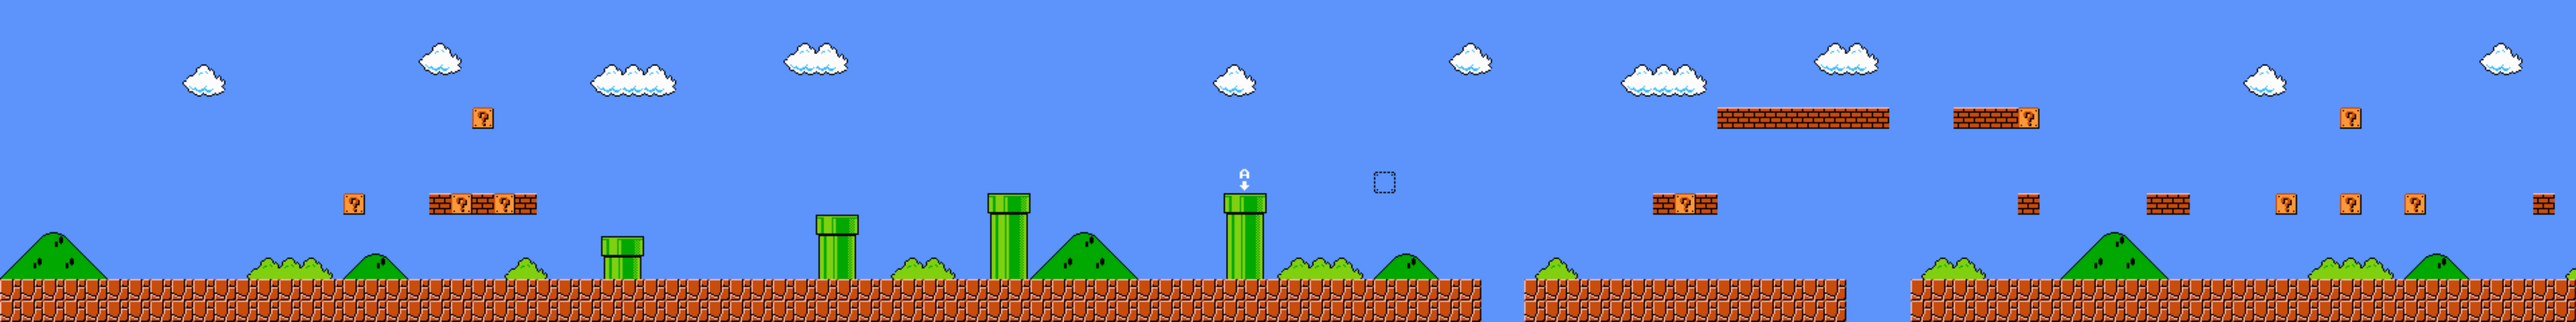
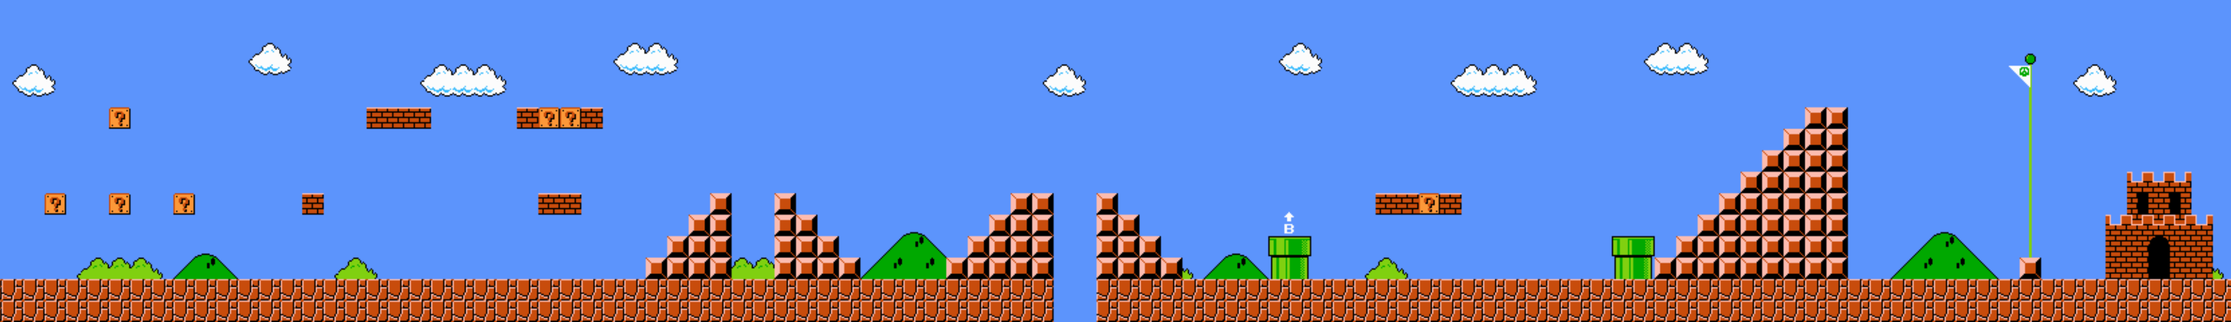
버그 수정 및 스크롤링 수정

diff --git a/object/Mario.py b/object/Mario.py
@@ -1,7 +1,7 @@
 from pico2d import *
 import game_framework
 import time
-
+import server
 
 Floor = 100
 VELOCITY = 1 # 속도
@@ -54,10 +54,13 @@ class IDLE:
 
     @staticmethod
     def draw(self):
+        sx, sy = self.x - server.back.window_left, server.mario.y
         if self.dir == 0:
             self.pose += 92
-            self.image.clip_draw(0, self.pose, 100, 75, self.x, self.y)
+            self.image.clip_draw(0, self.pose, 100, 75, sx, sy)
             self.pose -= 92
+        self.font.draw(self.x + 20, self.y + 10, f'x={self.x:.2f},y={self.y:.2f}, speed={self.speed:.2f}',
+                       (255, 255, 255))
 
 class RUN:
     def enter(self, event):
@@ -79,15 +82,18 @@ class RUN:
     def do(self):
         self.frame = (self.frame + FRAMES_PER_ACTION * ACTION_PER_TIME * game_framework.frame_time * self.speed) % 3
         self.x += self.dir * MOVE_SPEED_PPS * game_framework.frame_time * self.speed
-        self.x = clamp(0, self.x, 1400)
+        self.x = clamp(1, self.x, 4850*2)
 
     def draw(self):
+        sx, sy = self.x - server.back.window_left, server.mario.y
         if self.dir == -1:
-            self.image.clip_draw(int(self.frame) * 100 + 1000, self.pose + 12, 100, 75, self.x, self.y)
+            self.image.clip_draw(int(self.frame) * 100 + 1000, self.pose + 12, 100, 75, sx, sy)
             self.pose = 320
         elif self.dir == 1:
-            self.image.clip_draw(int(self.frame) * 100 + 100, self.pose + 91, 100, 75, self.x, self.y)
+            self.image.clip_draw(int(self.frame) * 100 + 100, self.pose + 91, 100, 75, sx, sy)
             self.pose = -1
+        self.font.draw(self.x + 20, self.y + 10, f'x={self.x:.2f},y={self.y:.2f}, speed={self.speed:.2f}',
+                       (255, 255, 255))
 
 class JUMP:
     def enter(self):
@@ -214,7 +220,7 @@ class Mario:
     def draw(self): #그리기
         self.cur_state.draw(self)
         draw_rectangle(*self.get_bb())
-        self.font.draw(self.x+20,self.y+10,f'x={self.x:.2f},y={self.y:.2f}, speed={self.speed:.2f}',(255,255,255))
+
 
     def jump(self, j): # 점프 상태 체크
         self.isJump = j
@@ -280,14 +286,7 @@ class Mario:
             self.state = 'invincible'
         if group == 'mario:enemy':
             pass
-        if group == 'mario:block':
-            if self.y < other.y:
-                self.y = other.get_bb()[1] - 11
-                self.v = -self.v
-            if self.y > other.y:
-                self.y = other.get_bb()[3] + 31
-                self.isJump = 0
-                self.v = VELOCITY
+
             pass
         pass
 
@@ -307,6 +306,14 @@ class Mario:
     def handle_floor_collision(self, other, group):
         if group == 'mario:enemy':
             self.jump(1)
+        if group == 'mario:block':
+            if self.y < other.y:
+                self.y = other.get_bb()[1] - 11
+                self.v = -self.v
+            if self.y > other.y:
+                self.y = other.get_bb()[3] + 31
+                self.isJump = 0
+                self.v = VELOCITY
             pass
         pass
 

diff --git a/object/Tiles.py b/object/Tiles.py
@@ -1,10 +1,10 @@
 from pico2d import *
 import game_world
-
+import server
 class Tile:
     def __init__(self):
-        self.x, self.y = 770 ,260
-        self.dis = 19
+        self.x, self.y = 770 ,255
+        self.w, self.h = 50, 50
         self.image = load_image('C:/2DGP_Project/image/Tiles.png')
 
     def update(self):
@@ -15,7 +15,7 @@ class Tile:
         pass
 
     def get_bb(self):
-        return self.x - 24, self.y - 24, self.x + 24, self.y + 19
+        return self.x-(self.w/2), self.y-(self.h/2), self.x+(self.w/2),self.y+(self.h/2)
 
     def handle_collision(self, other, group):
         if group == 'item:wall':
@@ -31,8 +31,8 @@ class Tile:
 
 class Brick:
     def __init__(self):
-        self.x, self.y = 1050, 445
-        self.dis = 19
+        self.x, self.y = 1050, 440
+        self.w, self.h = 50, 50
         self.image = load_image('C:/2DGP_Project/image/Tiles.png')
 
     def update(self):
@@ -43,7 +43,7 @@ class Brick:
         pass
 
     def get_bb(self):
-        return self.x - 24, self.y - 24, self.x + 24, self.y + 19
+        return self.x-(self.w/2), self.y-(self.h/2), self.x+(self.w/2),self.y+(self.h/2)
 
     def handle_collision(self, other, group):
         if group == 'item:wall':
@@ -59,8 +59,8 @@ class Brick:
 
 class Item_Box:
     def __init__(self):
-        self.x, self.y = 1050 ,260
-        self.dis = 19
+        self.x, self.y = 1050 ,255
+        self.w, self.h = 240, 50
         self.image = load_image('C:/2DGP_Project/image/Tiles.png')
 
     def update(self):
@@ -71,7 +71,7 @@ class Item_Box:
         pass
 
     def get_bb(self):
-        return self.x - 119, self.y - 24, self.x + 119, self.y + 19
+        return self.x-(self.w/2), self.y-(self.h/2), self.x+(self.w/2),self.y+(self.h/2)
 
     def handle_collision(self, other, group):
         if group == 'mario:item':
@@ -88,8 +88,9 @@ class Item_Box:
 class Pipe:
     def __init__(self):
         self.image = load_image('C:/2DGP_Project/image/Tiles.png')
+        self.w, self.h = 90, 100
         self.dis = 35
-        self.x, self.y = 1350, 150
+        self.x, self.y = 1355, 135
 
     def update(self):
         pass
@@ -98,7 +99,7 @@ class Pipe:
         draw_rectangle(*self.get_bb())
 
     def get_bb(self):
-        return self.x-40, self.y-65, self.x+50,self.y+35
+        return self.x-(self.w/2), self.y-(self.h/2), self.x+(self.w/2),self.y+(self.h/2)
 
     def handle_collision(self, other, group):
         pass
@@ -117,11 +118,12 @@ class Grid:
         self.x, self.y = 0, 0
 
     def update(self):
+        self.x -= server.mario.x
         pass
 
     def draw(self):
-        pass
         # for i in range(30):
         #     for j in range(60):
         #         draw_rectangle(self.x + j * 46,self.y + i*46,self.x + (j+1) * 46,self.x + (i+1) * 46)
+        pass
 

diff --git a/object/Background.py b/object/Background.py
@@ -3,28 +3,31 @@ from Mario import Mario
 import server
 class stage1:
     def __init__(self):
-        self.stage1 = load_image('C:/2DGP_Project/image/1stage-1.png')
-        # self.stage1_2 = load_image('1stage-2.png')
-        # self.image.clip_image(*screen_scale())
-        self.loc = 0
+        self.stage1 = [load_image(f'C:/2DGP_Project/image/1stage-{num}.png') for num in range(2)]
         self.canvas_width = get_canvas_width()
         self.canvas_height = get_canvas_height()
-        self.w = self.stage1.w
+        self.w = 4850 * 2
 
     def draw(self):
         # self.image.draw(4900 - 1400 - 700, 350)
         # self.stage1.clip_draw(0 , 0, 1400, 700, 700, 350)
-        self.stage1.clip_draw_to_origin(
-            self.window_left, 0,
-            self.canvas_width, self.canvas_height,
-            0, 0)
+        # self.stage1.clip_draw_to_origin(
+        #     self.window_left, 0,
+        #     self.canvas_width, self.canvas_height,
+        #     0, 0)
 
+        self.window_left = clamp(0,
+                                 int(server.mario.x) - self.canvas_width // 2,
+                                 self.w - self.canvas_width - 1)
+
+        tile_left = self.window_left // 4850
+        tile_right = (self.window_left + self.canvas_width) // 4850
+        left_offset = self.window_left % 4850
+
+        for tx in range(tile_left, tile_right + 1):
+            self.stage1[tx].draw_to_origin(-left_offset + (tx - tile_left) * 4850, 0)
 
     def update(self):
-        # self.loc += 1
-        self.window_left = clamp(0,
-                                 int(server.mario.x) - self.canvas_width // 2, self.w - self.canvas_width - 1)
+        # self.window_left = clamp(0,
+        #                          int(server.mario.x) - self.canvas_width // 2, self.w - self.canvas_width - 1)
         pass
-
-def screen_scale():
-    return 0,0,1400,700

diff --git a/object/Enemy.py b/object/Enemy.py
@@ -62,7 +62,7 @@ class Goomba:
 
     def handle_floor_collision(self, other, group):
         if group == 'enemy:floor':
-            self.y = other.y + other.dis + 1 + 25
+            self.y = other.y + other.h/2 + 1 + 25
         if group == 'mario:enemy':
             self.dir_x = 0
             self.state = 'dead'
@@ -108,7 +108,7 @@ class KoopaTroopa:
 
     def handle_floor_collision(self, other, group):
         if group == 'enemy:floor':
-            self.y = other.y + other.dis + 1 + 25
+            self.y = other.y + other.h/2 + 1 + 25
         if group == 'mario:enemy':
             if self.state == 'STAMPED':
                 self.dir_x = 2
@@ -157,7 +157,7 @@ class RedTroopa:
 
     def handle_floor_collision(self, other, group):
         if group == 'enemy:floor':
-            self.y = other.y + other.dis + 1 + 25
+            self.y = other.y + other.h/2 + 1 + 25
         if group == 'mario:enemy':
             if self.state == 'STAMPED':
                 self.dir_x = 2

diff --git a/object/play_state.py b/object/play_state.py
@@ -71,6 +71,7 @@ def update():
 
 
 
+
 def draw_world():
     for game_object in game_world.all_objects():
         game_object.draw()
@@ -101,10 +102,10 @@ def floor_collide(a,b): # 바닥 충돌 판정 (a가 b를 밟았을 때)
     la, ba, ra, ta = a.get_bb()
     lb, bb, rb, tb = b.get_bb()
 
-    if lb+10 < (la+ra)/2 < rb-10:
+    if lb < (la + ra) / 2 < rb:
         if ba > tb :
             return False
-        if ta < bb + 60:
+        if ta < bb :
             return False
         return True
 
@@ -112,7 +113,7 @@ def side_collide(a,b): # 측면 충돌 판정
     la, ba, ra, ta = a.get_bb()
     lb, bb, rb, tb = b.get_bb()
 
-    if bb+1 < ta < tb-1 or bb+1 < ba < tb-1:
+    if bb < (ta + ba) / 2 < tb:
         if la > rb:
             return False
         if ra < lb:

diff --git a/object/Items.py b/object/Items.py
@@ -138,7 +138,7 @@ class Star:
 
     def handle_floor_collision(self, other, group):
         if group == 'item:floor':
-            self.y = other.y + other.dis + 1 + 25
+            self.y = other.y + other.h/2 + 1 + 25
             self.isJump = 1
             self.v = VELOCITY
             pass
